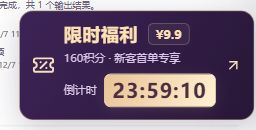
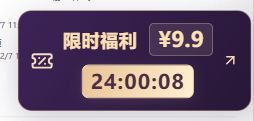
Simplify welfare copy and enlarge the floating price

diff --git a/components/newcomer-offer-controller.tsx b/components/newcomer-offer-controller.tsx
@@ -104,8 +104,7 @@ export function NewcomerOfferController() {
       }).catch(() => router.push("/account?offer=newcomer#membership")).finally(() => { inFlight.current = false; });
     }}><TicketPercent size={23}/><span className={styles.floatingContent}>
       <span className={styles.floatingHeading}><strong>限时福利</strong><b>¥{query.data.amount_fen / 100}</b></span>
-      <small>{query.data.credits}积分 · 新客首单专享</small>
-      <span className={styles.floatingClock}><small>倒计时</small><time aria-label={`优惠剩余${floatingTime?.parts.join(":")}`}>{floatingTime?.parts.join(":")}</time></span>
+      <span className={styles.floatingClock}><time aria-label={`优惠剩余${floatingTime?.parts.join(":")}`}>{floatingTime?.parts.join(":")}</time></span>
     </span><ArrowUpRight size={17}/></button>}
   </>;
 }
@@ -118,7 +117,7 @@ export function NewcomerOfferModal({offer,receivedAt,now,onClose}:{offer:Offer;r
   useEffect(()=>{if(time.seconds===0)onClose();},[time.seconds,onClose]);
   return <dialog ref={dialog} className={styles.dialog} aria-labelledby="newcomer-offer-title" onCancel={event=>{event.preventDefault();onClose();}} onClick={event=>{if(event.target===event.currentTarget){const r=event.currentTarget.getBoundingClientRect();if(event.clientX<r.left||event.clientX>r.right||event.clientY<r.top||event.clientY>r.bottom)onClose();}}}>
     <button type="button" className={styles.close} aria-label="关闭新人优惠" onClick={onClose}><X size={20}/></button>
-    <div className={styles.top}><span className={styles.badge}><TicketPercent size={15}/>新客首单专享</span><Sparkles className={styles.sparkle} size={38}/><h2 id="newcomer-offer-title">限时福利</h2><p>新客首单专享 · 160积分优惠体验</p></div>
+    <div className={styles.top}><span className={styles.badge}><TicketPercent size={15}/>新客首单专享</span><Sparkles className={styles.sparkle} size={38}/><h2 id="newcomer-offer-title">限时福利</h2></div>
     <div className={styles.coupon}>
       <div className={styles.price}>
         <small className={styles.originalPrice}>常规价 <s>¥{(offer.regular_amount_fen/100).toFixed(1)}</s></small>
@@ -132,7 +131,7 @@ export function NewcomerOfferModal({offer,receivedAt,now,onClose}:{offer:Offer;r
       </div>
       <div className={styles.perImage}>首单立省 <strong>¥{offer.savings_fen/100}</strong></div>
     </div>
-    <div className={styles.countdown}><span>本轮福利倒计时</span><div aria-label={`剩余${time.parts[0]}小时${time.parts[1]}分${time.parts[2]}秒`}>{time.parts.map((part,index)=><span key={index}>{index>0&&<i>:</i>}<b>{part}</b></span>)}</div></div>
+    <div className={styles.countdown}><div aria-label={`剩余${time.parts[0]}小时${time.parts[1]}分${time.parts[2]}秒`}>{time.parts.map((part,index)=><span key={index}>{index>0&&<i>:</i>}<b>{part}</b></span>)}</div></div>
     <Link className={styles.buy} href="/account?offer=newcomer#membership" onClick={onClose}>¥9.9 立即抢购<ArrowUpRight size={20}/></Link>
     <div className={styles.bottom}><span>一次购买 · 无自动续费</span><details><summary>活动规则</summary><p>未付费用户首单专享，每人限购一次。每24小时更新一轮福利，未购买用户可继续参与；每天最多提醒一次。160积分到账后30天有效。</p></details></div>
   </dialog>;

diff --git a/components/newcomer-offer-controller.module.css b/components/newcomer-offer-controller.module.css
@@ -36,3 +36,5 @@
 @media(max-width:480px){.priceValue>strong,.creditValue>strong{font-size:48px;letter-spacing:-1px}}
 @media(max-width:374px){.priceValue>strong,.creditValue>strong{font-size:44px}}
 @media(max-width:340px){.priceValue>strong,.creditValue>strong{font-size:40px}}
+
+.top h2{margin-bottom:24px}.floating .floatingHeading{align-items:baseline;gap:12px}.floatingHeading>b{padding:4px 8px;font-size:22px;font-weight:750;line-height:1.1;letter-spacing:.2px;background:#fff0d21a;border-color:#edcea66b}.floating .floatingClock{justify-content:center;margin-top:4px}@media(max-width:640px){.floatingHeading>b{font-size:21px}}
